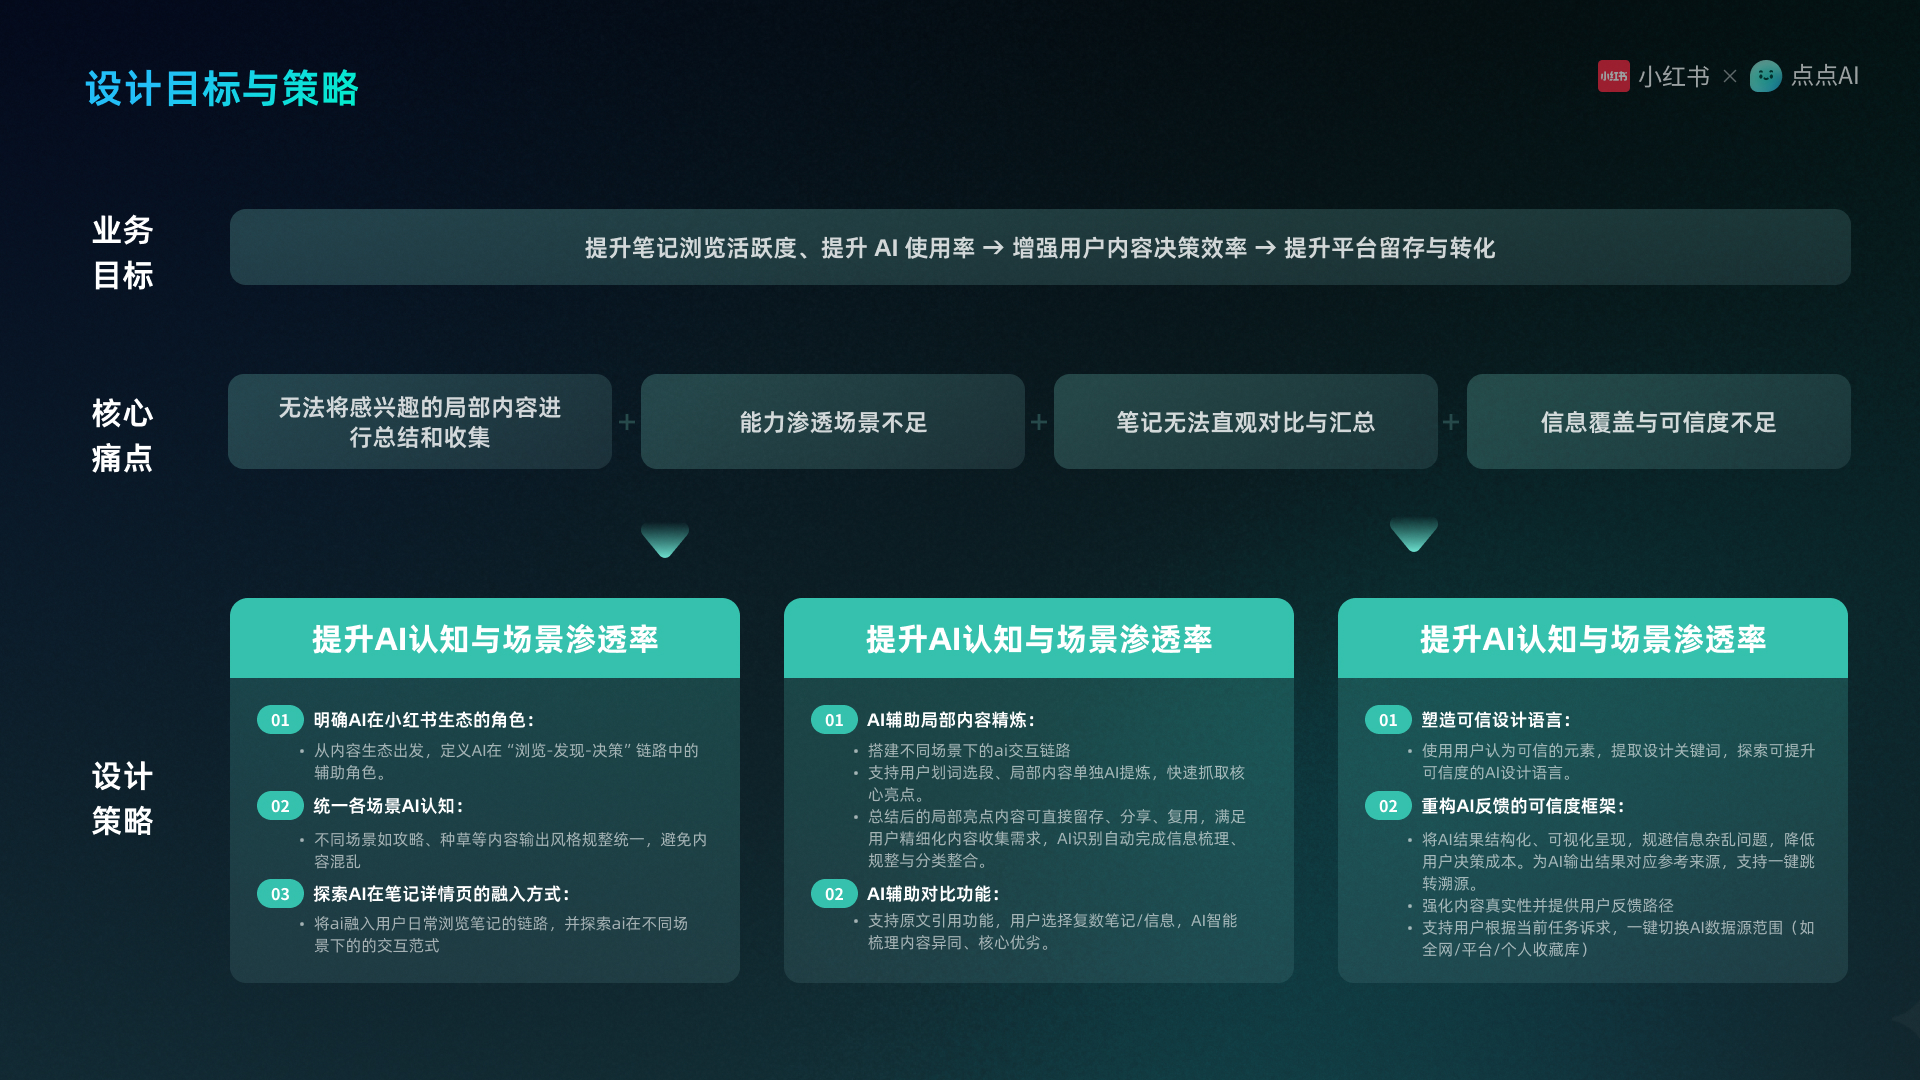
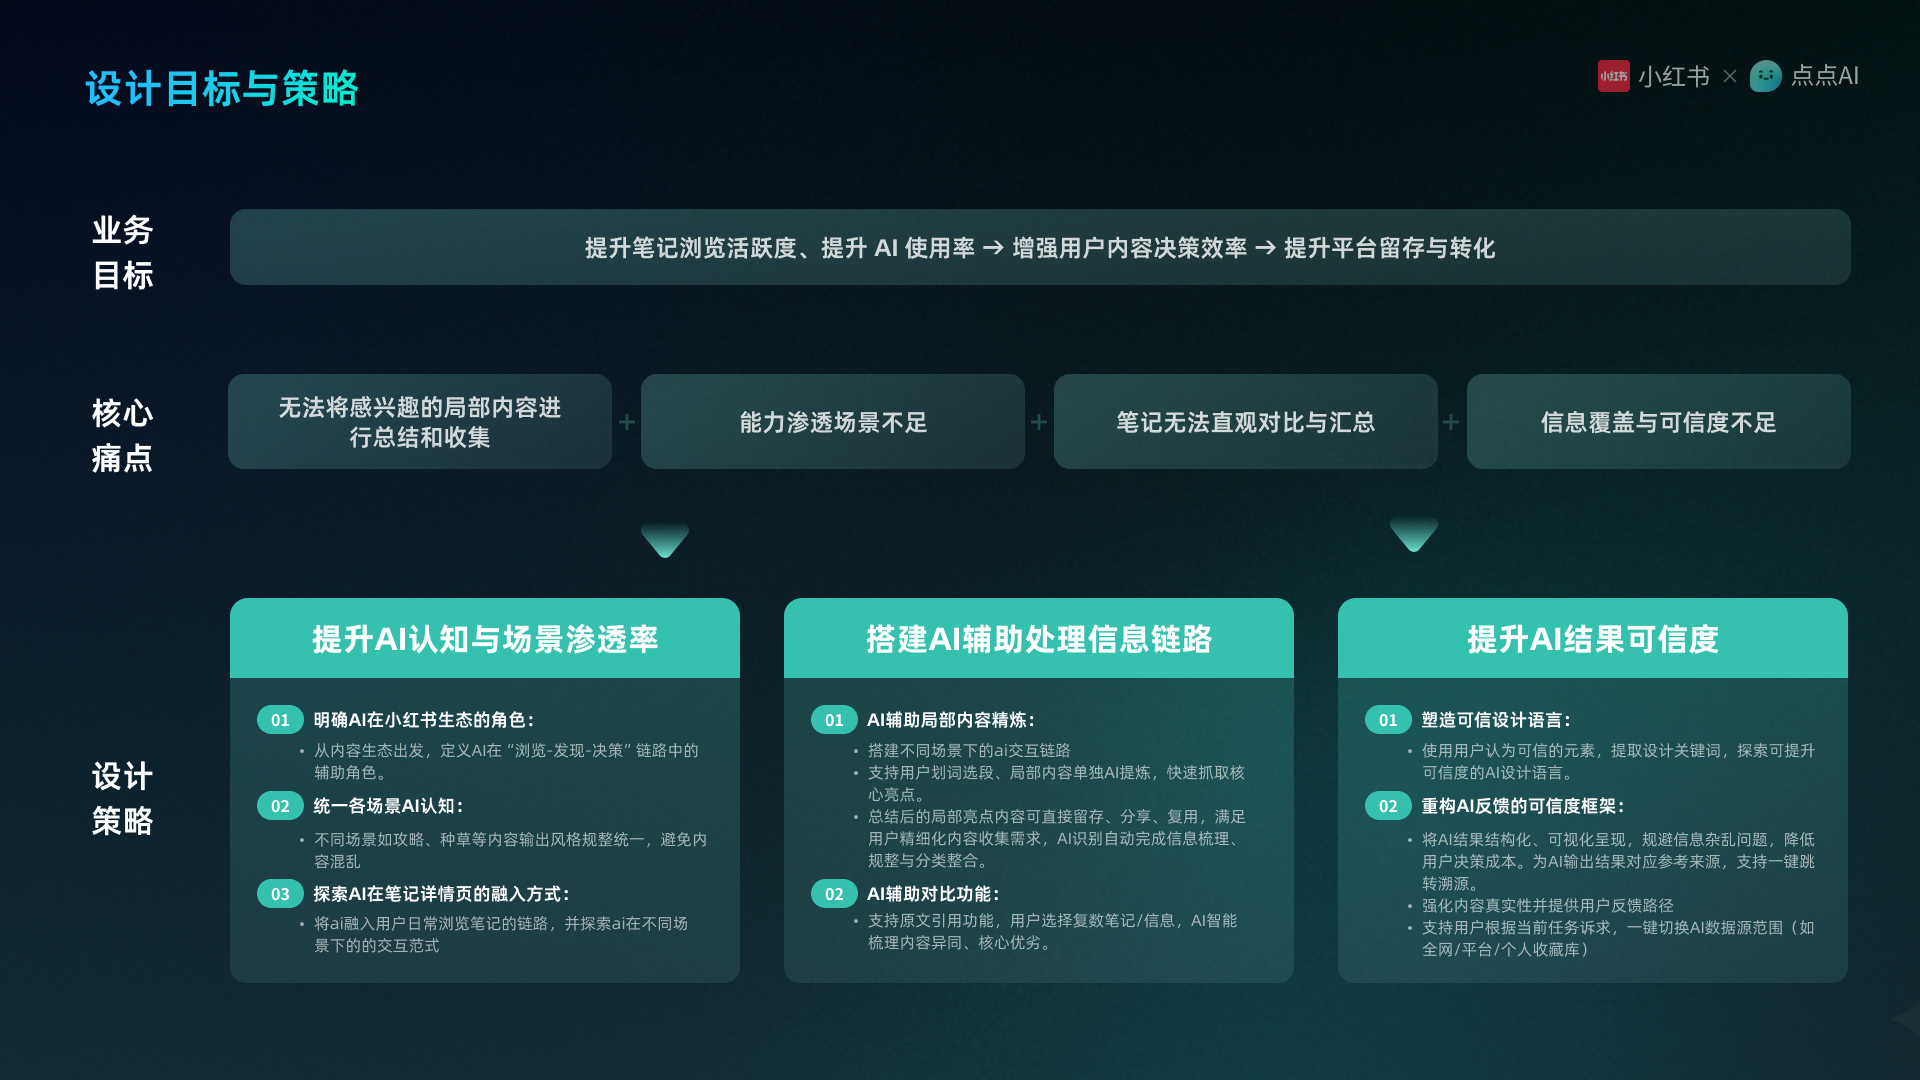
更新

Changed region(s): [[0.7188, 0.5806, 0.9375, 0.6111], [0.4375, 0.5806, 0.6562, 0.6111]]

diff --git a/script.js b/script.js
@@ -301,7 +301,7 @@ if (!document.querySelector("[data-language-toggle]")) {
         const chinesePageNumber = index + 1;
         return {
           selector: `img[src^="assets/rednote-redesign/${englishPageNumber}.jpg"]`,
-          zhSrc: `assets/rednote-redesign/中文版/${chinesePageNumber}.jpg?v=20261001-rednote-zh`,
+          zhSrc: `assets/rednote-redesign/中文版/${chinesePageNumber}.jpg?v=20261025-rednote-zh-p9`,
         };
       }),
       {

diff --git a/rednote-redesign.html b/rednote-redesign.html
@@ -148,6 +148,6 @@
       <img src="" alt="" data-lightbox-image>
     </div>
 
-    <script src="script.js?v=20261001-rednote-zh-nav"></script>
+    <script src="script.js?v=20261025-rednote-zh-p9"></script>
   </body>
 </html>
